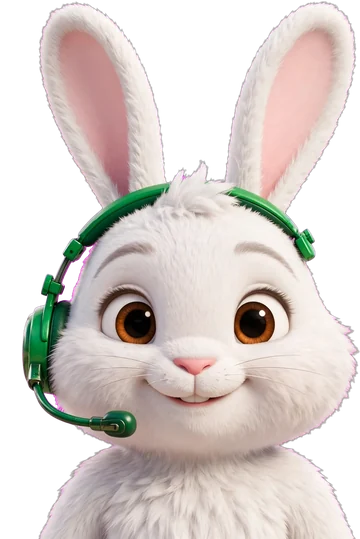
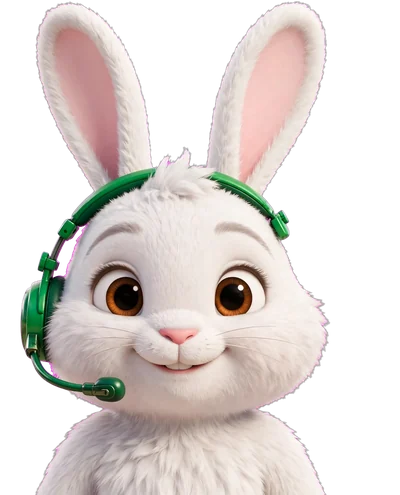
Saly waves hello

diff --git a/index.html b/index.html
@@ -102,7 +102,7 @@
   .saly{position:relative;display:block;flex:0 0 auto;transform-origin:50% 100%}
   .saly img{position:absolute;inset:0;width:100%;height:100%;object-fit:contain;object-position:50% 100%;opacity:0;display:block}
   .saly img.on{opacity:1}
-  .saly-head{width:74px;height:96px;margin:-10px 0 -16px -4px}
+  .saly-head{width:84px;height:104px;margin:-12px -6px -18px -6px}
   .saly[data-state="idle"]{animation:breathe 3s ease-in-out infinite}
   .saly[data-state="thinking"]{animation:tilt 1.6s ease-in-out infinite}
   .saly[data-state="speaking"]{animation:talk .45s ease-in-out infinite alternate}
@@ -123,10 +123,10 @@
     padding:max(20px,env(safe-area-inset-top,0px)) max(20px,env(safe-area-inset-right,0px)) max(20px,env(safe-area-inset-bottom,0px)) max(20px,env(safe-area-inset-left,0px))}
   .call-box{width:100%;max-width:460px;display:grid;justify-items:center;gap:14px;text-align:center}
   .call-top{margin:0;font-size:13px;font-weight:700;letter-spacing:.06em;text-transform:uppercase;color:#9AA6BA}
-  .orb{width:220px;height:300px;border:0;cursor:pointer;display:grid;place-items:end center;padding:0;background:none;position:relative}
+  .orb{width:250px;height:310px;border:0;cursor:pointer;display:grid;place-items:end center;padding:0;background:none;position:relative}
   .orb::before{content:"";position:absolute;left:50%;bottom:6px;width:190px;height:190px;margin-left:-95px;border-radius:50%;
     background:radial-gradient(circle,rgba(16,185,129,.35),rgba(16,185,129,0) 70%);transition:transform .3s,opacity .3s}
-  .saly-call{position:relative;width:200px;height:300px;filter:drop-shadow(0 10px 24px rgba(0,0,0,.45))}
+  .saly-call{position:relative;width:250px;height:310px;filter:drop-shadow(0 10px 24px rgba(0,0,0,.45))}
   .callscreen[data-state="hearing"] .orb::before{transform:scale(1.25)}
   .callscreen[data-state="thinking"] .orb::before{background:radial-gradient(circle,rgba(56,189,248,.35),rgba(56,189,248,0) 70%)}
   @keyframes breathe{50%{transform:scale(1.025) translateY(-3px)}}
@@ -185,7 +185,7 @@
   .row{display:flex;gap:10px;align-items:flex-start;max-width:100%}
   .row.user{justify-content:flex-end}
   .av{width:44px;height:44px;flex:0 0 auto;overflow:hidden;padding:0}
-  .av img{width:100%;height:100%;object-fit:cover;object-position:50% 62%;display:block;transform:scale(1.35);transform-origin:50% 62%}
+  .av img{width:100%;height:100%;object-fit:cover;display:block}
   .msg{padding:12px 15px;border-radius:16px;line-height:1.6;overflow-wrap:anywhere;font-size:15.5px;max-width:min(640px,88%)}
   .user .msg{background:var(--user);color:var(--user-ink);border-bottom-right-radius:5px;font-weight:600}
   .bot .msg{background:var(--card2);border:1px solid var(--line);border-top-left-radius:5px}
@@ -511,7 +511,7 @@ function renderAnswer(container, text) {
 }
 
 // ── Saly: frames drawn with Muse Image (blink, talk, think, happy) ──
-const SALY = {frames: ['base', 'blink', 'talk1', 'talk2', 'happy', 'think'], els: [], state: 'idle', t: null};
+const SALY = {frames: ['base', 'blink', 'talk1', 'talk2', 'happy', 'think', 'wave1', 'wave2'], els: [], state: 'idle', t: null, w: 0};
 function mountSaly(w) {
   SALY.frames.forEach(f => { const i = el('img'); i.src = '/saly/' + f + '.webp'; i.alt = ''; i.dataset.f = f;
                              if (f === 'base') i.className = 'on'; w.appendChild(i); });
@@ -519,7 +519,7 @@ function mountSaly(w) {
 }
 function salyShow(f) { SALY.els.forEach(w => w.querySelectorAll('img').forEach(i => i.classList.toggle('on', i.dataset.f === f))); }
 function salySet(state) {
-  SALY.state = state; clearTimeout(SALY.t);
+  SALY.state = state; SALY.w = 0; clearTimeout(SALY.t);
   SALY.els.forEach(w => { w.dataset.state = state; });
   salyTick();
 }
@@ -529,6 +529,10 @@ function salyTick() {
     const r = Math.random();
     salyShow(r < .38 ? 'talk1' : r < .72 ? 'talk2' : 'base');
     SALY.t = setTimeout(salyTick, 100 + Math.random() * 90); return;
+  }
+  if (st === 'wave') {   // waves hello: same paw, back and forth
+    SALY.w++; salyShow(SALY.w % 2 ? 'wave1' : 'wave2');
+    SALY.t = setTimeout(SALY.w >= 7 ? () => salySet('idle') : salyTick, 260); return;
   }
   if (st === 'happy') { salyShow('happy'); SALY.t = setTimeout(() => salySet('idle'), 1500); return; }
   salyShow(st === 'thinking' ? 'think' : 'base');
@@ -543,7 +547,7 @@ function addRow(who) {
   if (who === 'bot') {
     const av = el('span', 'av');
     const face = el('img');
-    face.src = '/saly/base.webp';
+    face.src = '/saly/face.webp';
     face.alt = 'Saly';
     av.appendChild(face);
     row.appendChild(av);
@@ -863,6 +867,7 @@ async function startCall() {
     proc.onaudioprocess = e => onCallAudio(e.inputBuffer.getChannelData(0));
     src.connect(proc); proc.connect(ctx.destination);
     setCall('speaking', 'Saly');
+    salySet('wave');
     const hello = "Hi, I'm Saly. What would you like to know?";
     document.getElementById('call-bot').textContent = hello;
     speakThen(hello, listen);
@@ -949,7 +954,10 @@ if (canSpeak && navigator.mediaDevices && navigator.mediaDevices.getUserMedia &&
   const cb = document.getElementById('call-start'); cb.hidden = false; cb.onclick = startCall;
 }
 
+const sleep = ms => new Promise(ok => setTimeout(ok, ms));
 async function showGreeting() {
+  salySet('wave');
+  const waved = sleep(still ? 0 : 1900);
   const msg = addRow('bot');
   const dots = el('span', 'typing'); dots.append(el('span'), el('span'), el('span'));
   msg.appendChild(dots);
@@ -960,6 +968,7 @@ async function showGreeting() {
     if (r.ok) { const d = await r.json(); if (d.text) g = d; }
   } catch {}
   if (history.length) { msg.textContent = ''; renderAnswer(msg, g.text); return; }
+  await waved;
   await typeOut(msg, g.text);
   if (g.replies && g.replies.length) msg.appendChild(replyButtons(g.replies));
 }

diff --git a/server.py b/server.py
@@ -1198,7 +1198,7 @@ def chat(user_messages, voice=False):
     raise RuntimeError("That question needed too many data lookups. Try asking it in smaller pieces.")
 
 
-SALY_FILES = {f"/saly/{f}.webp" for f in ("base", "blink", "talk1", "talk2", "happy", "think")}
+SALY_FILES = {f"/saly/{f}.webp" for f in ("base", "blink", "talk1", "talk2", "happy", "think", "wave1", "wave2", "face")}
 
 
 class Handler(SimpleHTTPRequestHandler):
